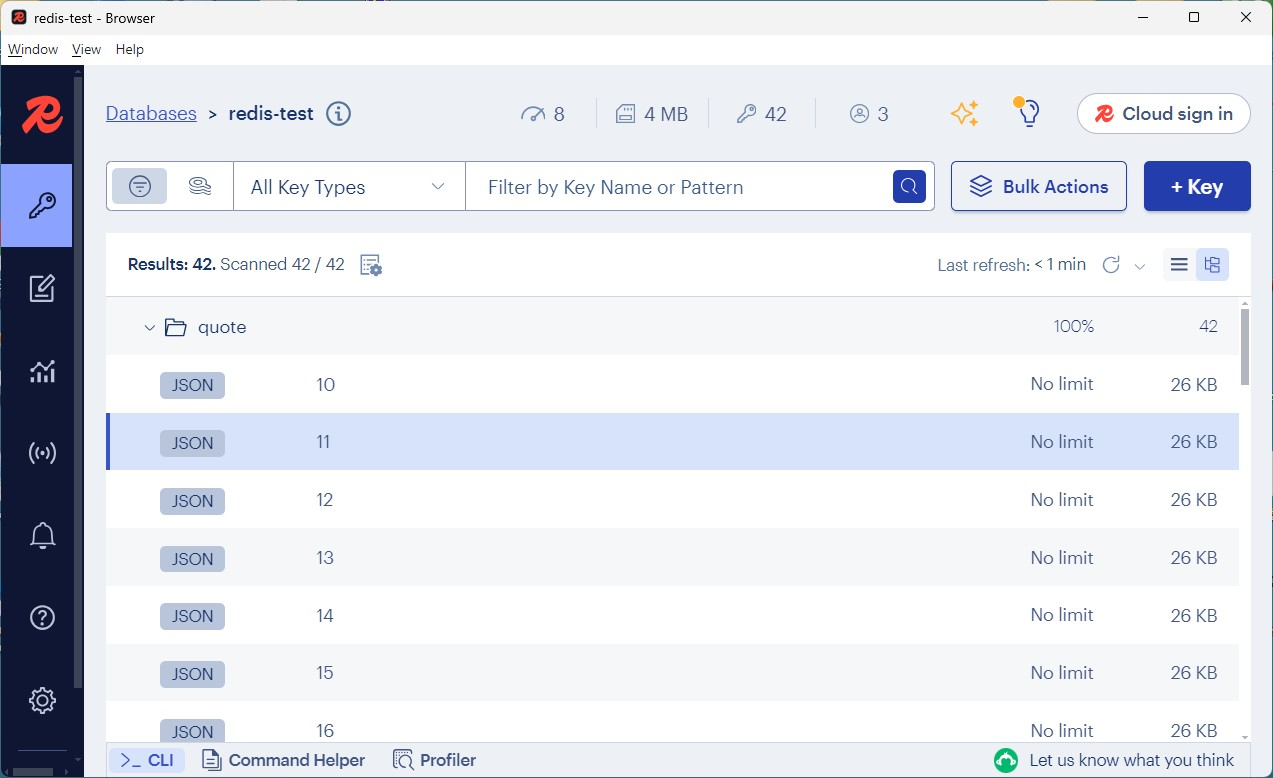
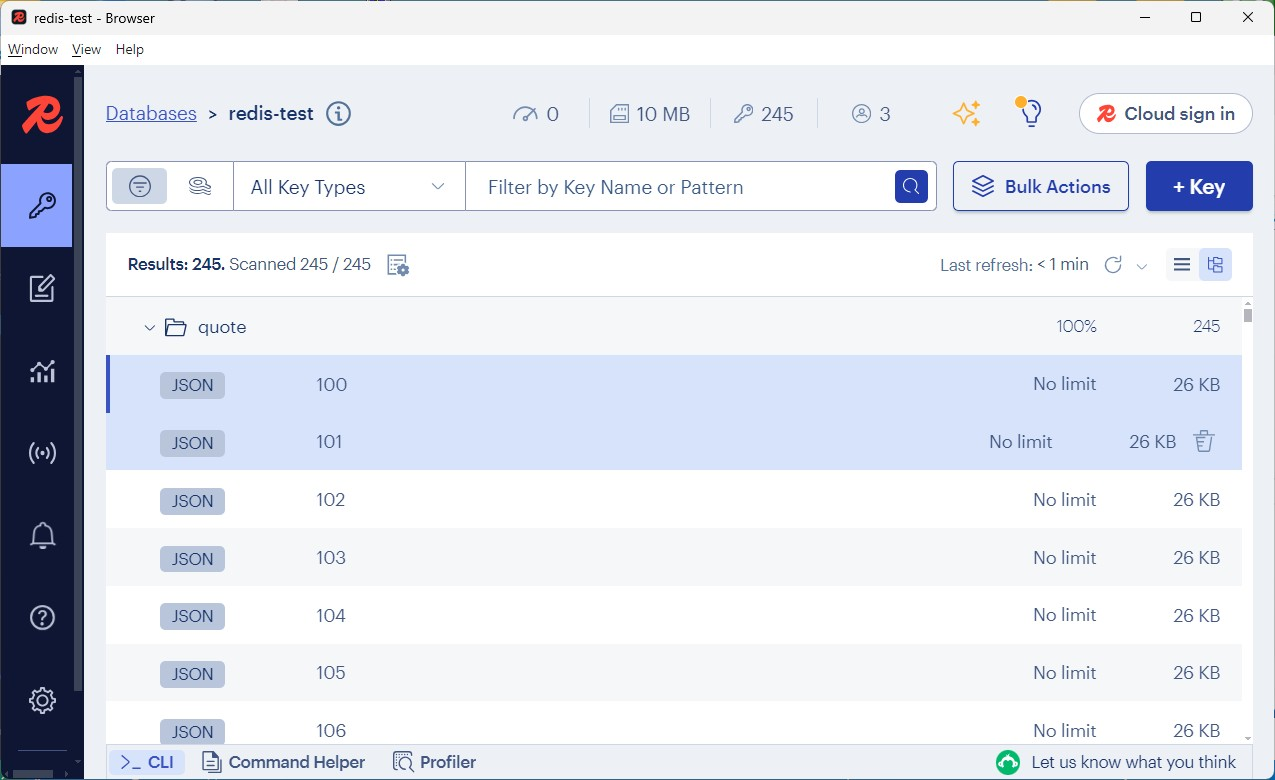
write more

diff --git a/src/quotes.js b/src/quotes.js
@@ -1027,6 +1027,207 @@ export const quotes = [
     "author": "Oscar Wilde",
     "quote": "To lose one parent may be regarded as a misfortune; to lose both looks like carelessness.",
     "source": "The Importance of Being Earnest"
-  } 
+  },
+
+  {
+    "author": "George Orwell",
+    "quote": "In a time of deceit telling the truth is a revolutionary act.",
+    "source": "Nineteen Eighty-Four"
+  },
+  {
+    "author": "George Orwell",
+    "quote": "War is peace. Freedom is slavery. Ignorance is strength.",
+    "source": "Nineteen Eighty-Four"
+  },
+  {
+    "author": "George Orwell",
+    "quote": "Big Brother is watching you.",
+    "source": "Nineteen Eighty-Four"
+  },
+  {
+    "author": "George Orwell",
+    "quote": "All animals are equal, but some animals are more equal than others.",
+    "source": "Animal Farm"
+  },
+  {
+    "author": "George Orwell",
+    "quote": "If you want a picture of the future, imagine a boot stamping on a human face—forever.",
+    "source": "Nineteen Eighty-Four"
+  },
+  {
+    "author": "George Orwell",
+    "quote": "The most effective way to destroy people is to deny and obliterate their own understanding of their history.",
+    "source": "Nineteen Eighty-Four"
+  },
+  {
+    "author": "George Orwell",
+    "quote": "Doublethink means the power of holding two contradictory beliefs in one's mind simultaneously, and accepting both of them.",
+    "source": "Nineteen Eighty-Four"
+  },
+  {
+    "author": "George Orwell",
+    "quote": "We shall meet in the place where there is no darkness.",
+    "source": "Nineteen Eighty-Four"
+  },
+  {
+    "author": "George Orwell",
+    "quote": "The best books... are those that tell you what you know already.",
+    "source": "Nineteen Eighty-Four"
+  },
+  {
+    "author": "George Orwell",
+    "quote": "Until they become conscious they will never rebel, and until after they have rebelled they cannot become conscious.",
+    "source": "Nineteen Eighty-Four"
+  },
+  {
+    "author": "George Orwell",
+    "quote": "If liberty means anything at all it means the right to tell people what they do not want to hear.",
+    "source": "Animal Farm"
+  },
+  {
+    "author": "George Orwell",
+    "quote": "Freedom is the freedom to say that two plus two make four. If that is granted, all else follows.",
+    "source": "Nineteen Eighty-Four"
+  },
+  {
+    "author": "George Orwell",
+    "quote": "The creatures outside looked from pig to man, and from man to pig, and from pig to man again; but already it was impossible to say which was which.",
+    "source": "Animal Farm"
+  },
+  {
+    "author": "George Orwell",
+    "quote": "To see what is in front of one's nose needs a constant struggle.",
+    "source": "Nineteen Eighty-Four"
+  },
+  {
+    "author": "George Orwell",
+    "quote": "Who controls the past controls the future. Who controls the present controls the past.",
+    "source": "Nineteen Eighty-Four"
+  },
+  {
+    "author": "George Orwell",
+    "quote": "The great enemy of clear language is insincerity.",
+    "source": "Politics and the English Language"
+  },
+  {
+    "author": "George Orwell",
+    "quote": "The essence of being human is that one does not seek perfection.",
+    "source": "Reflections on Gandhi"
+  },
+  {
+    "author": "George Orwell",
+    "quote": "Political language... is designed to make lies sound truthful and murder respectable, and to give an appearance of solidity to pure wind.",
+    "source": "Politics and the English Language"
+  },
+  {
+    "author": "George Orwell",
+    "quote": "Every generation imagines itself to be more intelligent than the one that went before it, and wiser than the one that comes after it.",
+    "source": "The Collected Essays, Journalism and Letters of George Orwell"
+  },
+  {
+    "author": "George Orwell",
+    "quote": "The object of terrorism is terrorism. The object of oppression is oppression. The object of torture is torture. The object of murder is murder. The object of power is power.",
+    "source": "Nineteen Eighty-Four"
+  },
+  {
+    "author": "George Orwell",
+    "quote": "Happiness can only exist in acceptance.",
+    "source": "Coming Up for Air"
+  },
+  {
+    "author": "George Orwell",
+    "quote": "Power is not a means, it is an end.",
+    "source": "Nineteen Eighty-Four"
+  },
+  {
+    "author": "George Orwell",
+    "quote": "Power is in tearing human minds to pieces and putting them together again in new shapes of your own choosing.",
+    "source": "Nineteen Eighty-Four"
+  },
+  {
+    "author": "George Orwell",
+    "quote": "The choice for mankind lies between freedom and happiness and for the great bulk of mankind, happiness is better.",
+    "source": "Nineteen Eighty-Four"
+  },
+  {
+    "author": "George Orwell",
+    "quote": "The further a society drifts from truth, the more it will hate those who speak it.",
+    "source": "Attributed"
+  },
+  {
+    "author": "George Orwell",
+    "quote": "Perhaps one did not want to be loved so much as to be understood.",
+    "source": "Nineteen Eighty-Four"
+  },
+  {
+    "author": "George Orwell",
+    "quote": "To die hating them, that was freedom.",
+    "source": "Nineteen Eighty-Four"
+  },
+  {
+    "author": "George Orwell",
+    "quote": "Orthodoxy means not thinking—not needing to think. Orthodoxy is unconsciousness.",
+    "source": "Nineteen Eighty-Four"
+  },
+  {
+    "author": "George Orwell",
+    "quote": "The only good human being is a dead one.",
+    "source": "Animal Farm"
+  },
+  {
+    "author": "George Orwell",
+    "quote": "The essence of being human is that one does not seek perfection.",
+    "source": "Reflections on Gandhi"
+  },
+  {
+    "author": "George Orwell",
+    "quote": "It’s frightful that people who are so ignorant should have so much influence.",
+    "source": "A Clergyman's Daughter"
+  },
+  {
+    "author": "George Orwell",
+    "quote": "If people cannot write well, they cannot think well, and if they cannot think well, others will do their thinking for them.",
+    "source": "Animal Farm"
+  },
+  {
+    "author": "George Orwell",
+    "quote": "Myths which are believed in tend to become true.",
+    "source": "The Collected Essays, Journalism and Letters of George Orwell"
+  },
+  {
+    "author": "George Orwell",
+    "quote": "A people that elect corrupt politicians, imposters, thieves, and traitors are not victims... but accomplices.",
+    "source": "Attributed"
+  },
+  {
+    "author": "George Orwell",
+    "quote": "To see what is in front of one’s nose needs a constant struggle.",
+    "source": "In Front of Your Nose"
+  },
+  {
+    "author": "George Orwell",
+    "quote": "On the whole, human beings want to be good, but not too good, and not quite all the time.",
+    "source": "All Art is Propaganda"
+  },
+  {
+    "author": "George Orwell",
+    "quote": "The quickest way of ending a war is to lose it.",
+    "source": "Homage to Catalonia"
+  },
+  {
+    "author": "George Orwell",
+    "quote": "All the war-propaganda, all the screaming and lies and hatred, comes invariably from people who are not fighting.",
+    "source": "Homage to Catalonia"
+  },
+  {
+    "author": "George Orwell",
+    "quote": "Sometimes the first duty of intelligent men is the restatement of the obvious.",
+    "source": "Essays and Journalism"
+  },
+  {
+    "author": "George Orwell",
+    "quote": "At fifty everyone has the face he deserves.",
+    "source": "British Pamphleteer"
+  }
   
 ]

diff --git a/README.md b/README.md
@@ -130,6 +130,21 @@ FT.SEARCH documents "*=>[KNN 10 @doc_embedding $BLOB]" PARAMS 2 BLOB "\x12\xa9\x
 
 
 #### II. Loading the data
+
+Our quote database consists of more than two hundreds famous quotes with fhe form of:
+
+```
+{
+    "author": "Oscar Wilde",
+    "quote": "Women are made to be loved, not understood.",
+    "source": "Lord Arthur Savile's Crime and Other Stories"
+}
+```
+
+> To generate sentence embeddings, we'll make use of a Hugging Face model titled [Xenova/all-distilroberta-v1](https://huggingface.co/Xenova/all-distilroberta-v1). It's a compatible version of [sentence-transformers/all-distilroberta-v1](https://huggingface.co/sentence-transformers/all-distilroberta-v1) for transformer.js with ONNX weights.
+
+> Now iterate over the quotes array to store the data as JSON documents in Redis by using the JSON.SET command. 
+
 loadData.js
 ```
 async function main() {
